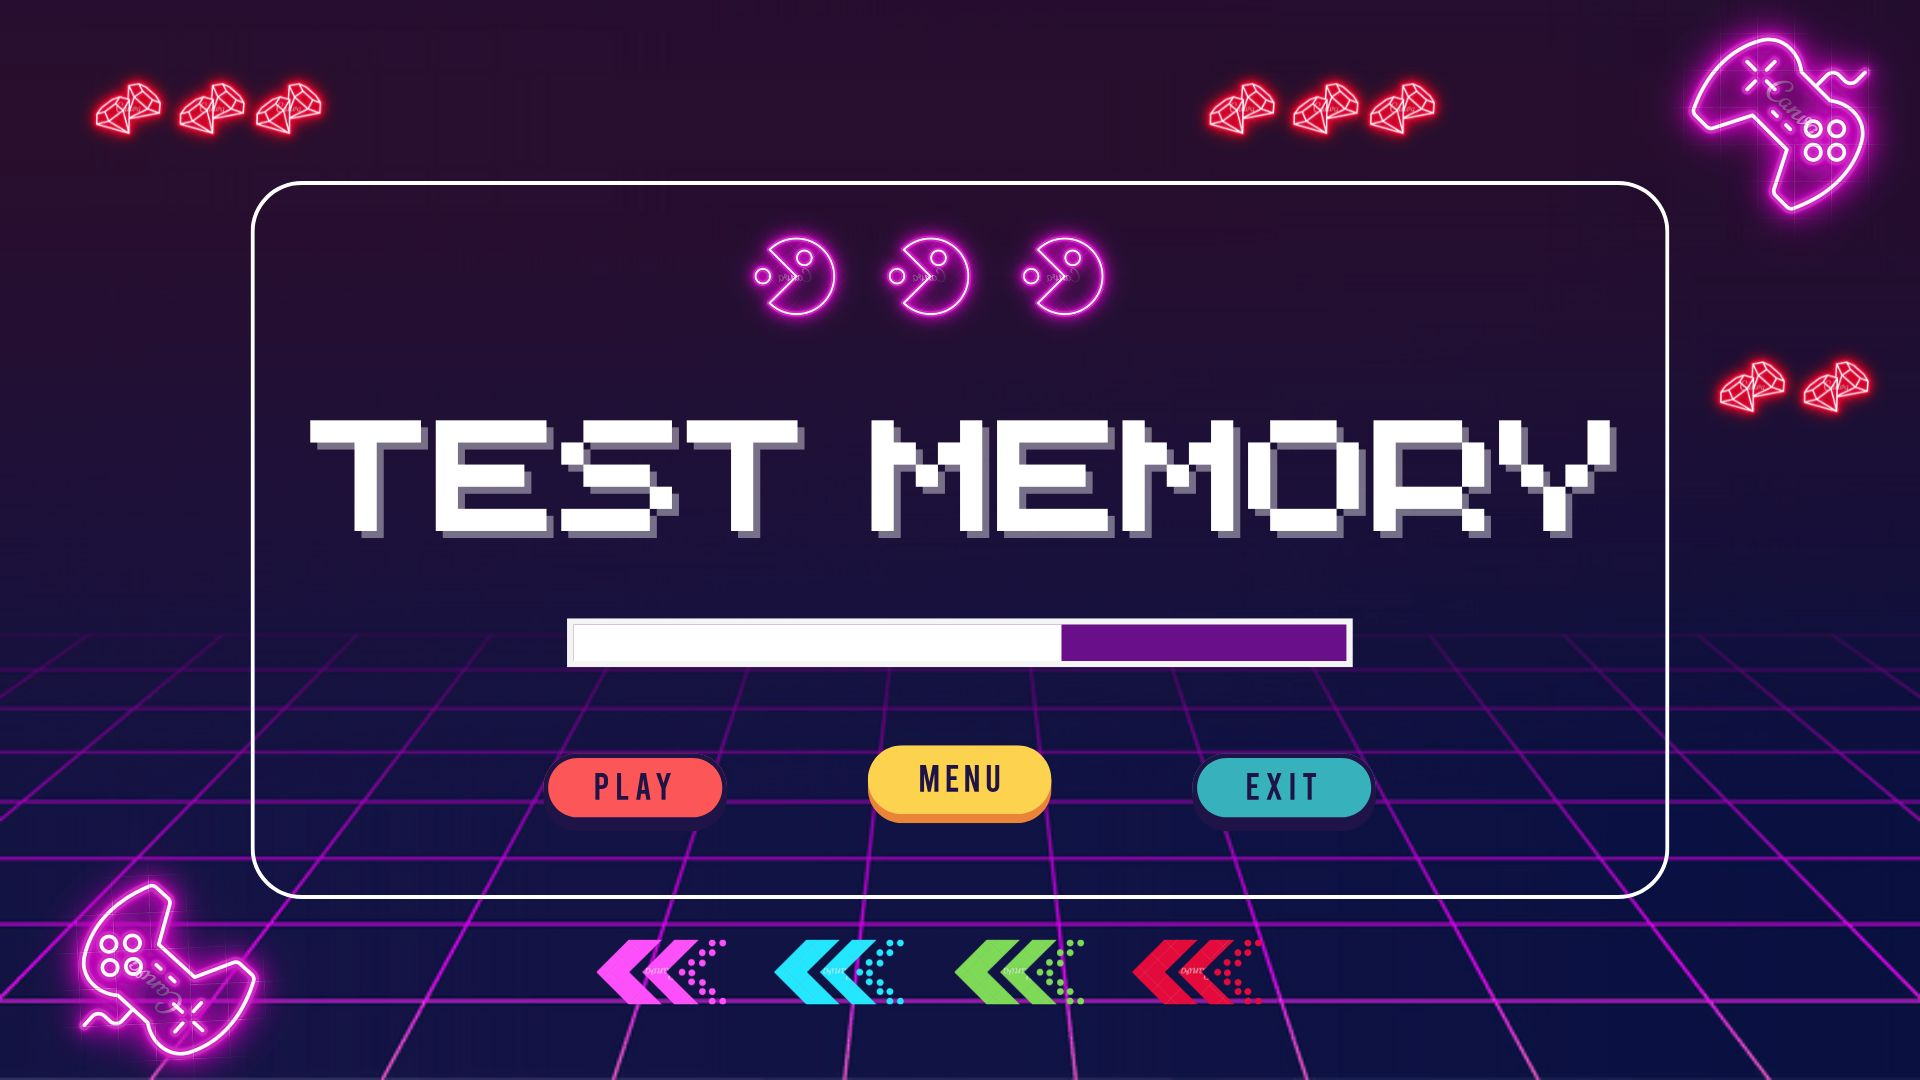
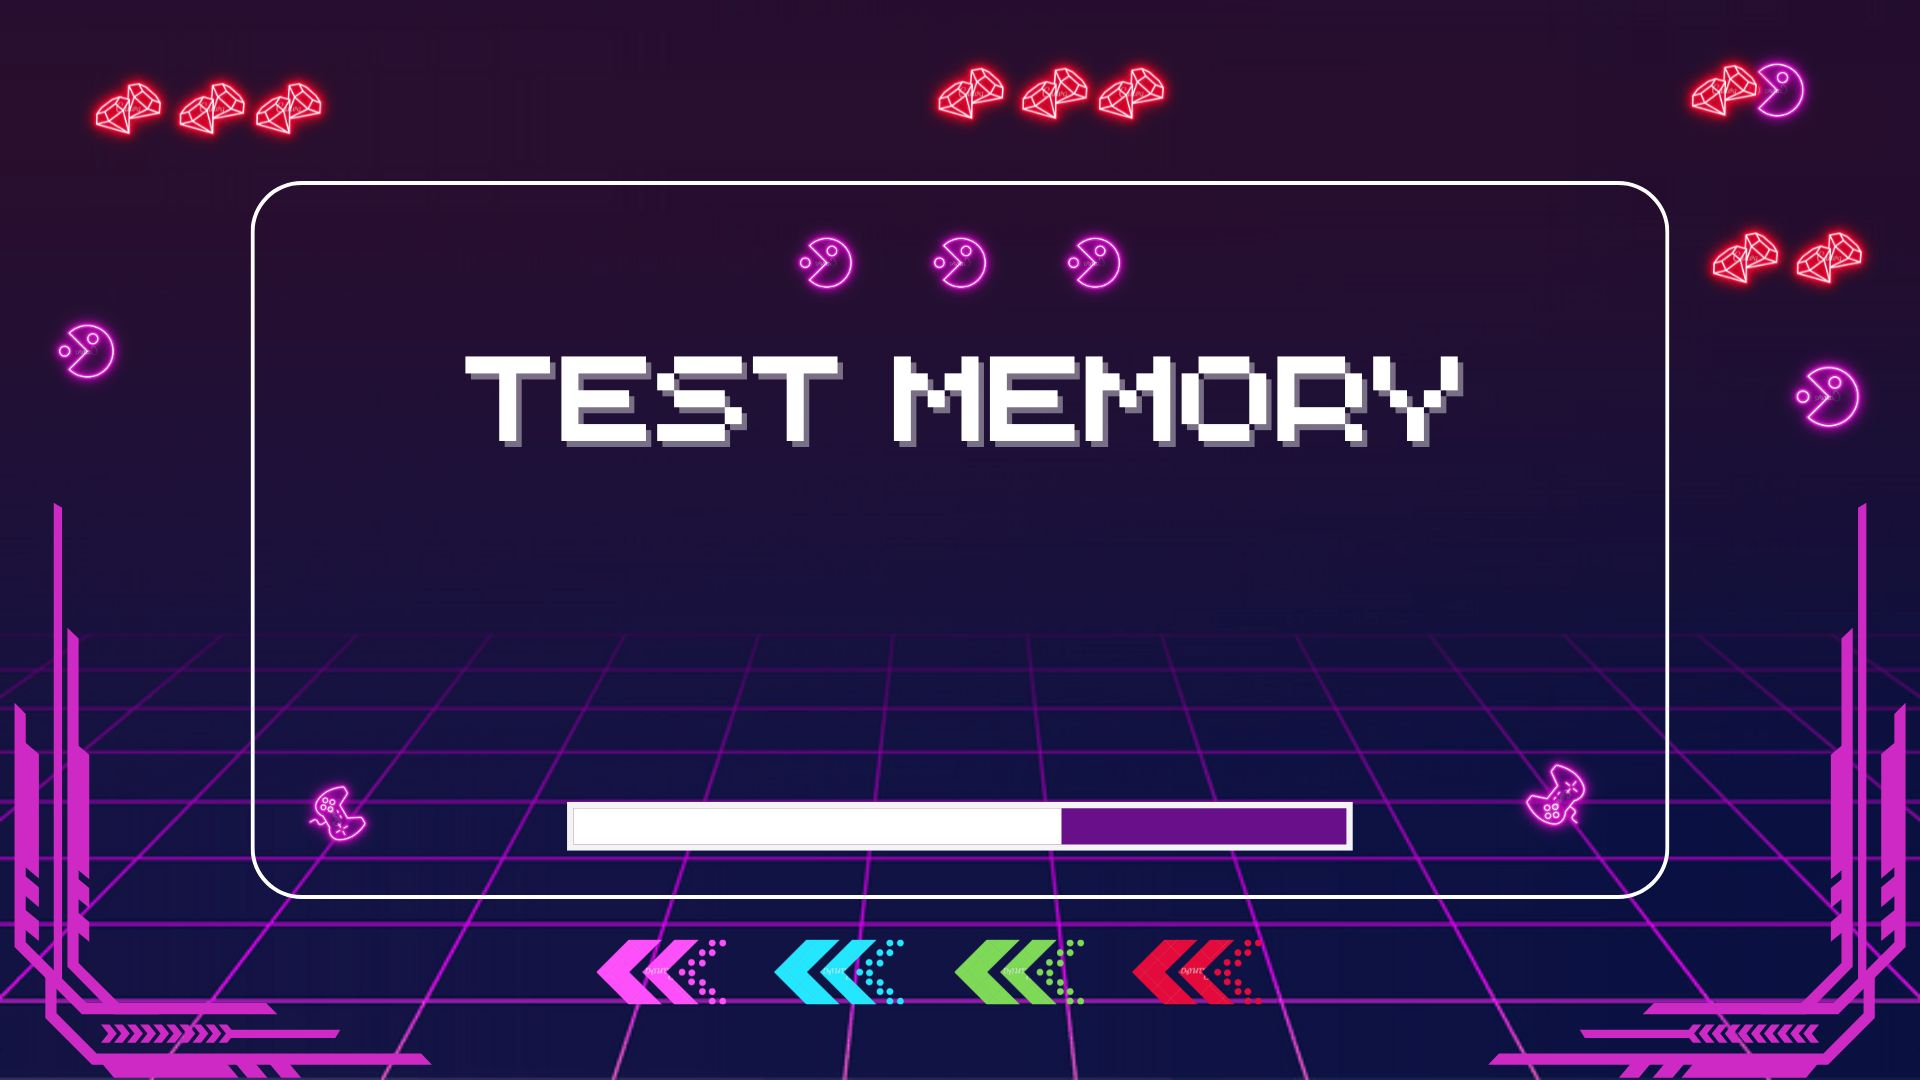
Subindo tela de login stylizada

diff --git a/index.html b/index.html
@@ -15,9 +15,8 @@
 <body>
     <form class="login_form">
            <div class="login_header">
-            <img src="./img/game start.jpg" alt="icon game">
            </div>
-           <input type="text" placeholder="Nome" class="login_input">
+           <input type="text" placeholder="Name" class="login_input">
            <button type="submit" class="login_button" disabled>Play</button>
 
     </form>

diff --git a/css/login.css b/css/login.css
@@ -46,3 +46,9 @@ justify-content: center;
     color: #aaa;
     cursor: auto;
 }
+.login_form{
+    background-image: url("/img/game\ start.jpg");
+    background-size: 100% 100%;
+    background-repeat: no-repeat;
+    
+}
